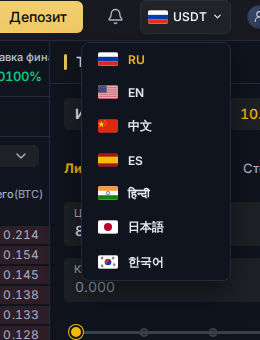
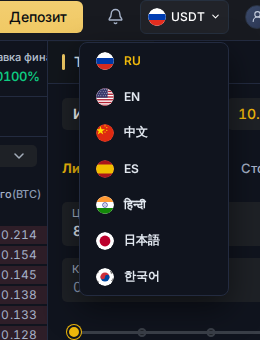
Language switcher: round flags
Each flag is an 18px circle clipped from the same 3:2 drawing (centred,
or on the canton / star side for the US and China) with a faint ring.

Claude-Session: https://claude.ai/code/session_01QYDaBPmAQT7kqxtv32nEHZ

diff --git a/frontend/src/components/LanguageSwitcher.tsx b/frontend/src/components/LanguageSwitcher.tsx
@@ -1,4 +1,4 @@
-import { useEffect, useRef, useState } from 'react';
+import { useEffect, useId, useRef, useState } from 'react';
 import { useLanguage } from '../lib/i18n';
 import { LANGUAGES, type Lang } from '../lib/i18n';
 
@@ -63,17 +63,23 @@ export function LanguageSwitcher({ variant = 'icon', quoteAsset }: { variant?: '
   );
 }
 
-/** The flag of the language's country, 3:2, simplified to what reads at
- *  20×14px. A hairline ring keeps the white fields (Japan, Korea) visible
- *  on the dark header. In the list the name follows, so there it is
- *  decorative; on the button it is the only thing naming the language. */
+/** The flag of the language's country as a round 18px badge (owner,
+ *  2026-09-24). The 3:2 flag is drawn as before and a 20×20 window of it
+ *  is clipped to a circle — centred, or on the canton / star side where the
+ *  flag's emblem sits there. A hairline ring keeps the white fields (Japan,
+ *  Korea) visible on the dark header. In the list the name follows, so
+ *  there it is decorative; on the button it names the language. */
+const FLAG_WINDOW: Record<Lang, number> = { en: 0, zh: 0, ru: 5, es: 5, hi: 5, ja: 5, ko: 5 };
 function FlagIcon({ lang, label, decorative = false }: { lang: Lang; label: string; decorative?: boolean }) {
+  const clip = `flag-${useId().replace(/[^a-zA-Z0-9_-]/g, '')}`;
+  const x = FLAG_WINDOW[lang] ?? 5;
   return (
-    <svg className="language-flag" width="20" height="14" viewBox="0 0 30 20" style={styles.flag}
+    <svg className="language-flag" width="18" height="18" viewBox={`${x} 0 20 20`} style={styles.flag}
       {...(decorative ? { 'aria-hidden': true } : { role: 'img', 'aria-label': label })}>
       {!decorative && <title>{label}</title>}
-      {FLAGS[lang] ?? FLAGS.en}
-      <rect x="0.25" y="0.25" width="29.5" height="19.5" rx="2" fill="none" stroke="rgba(255,255,255,0.18)" strokeWidth="0.5" />
+      <defs><clipPath id={clip}><circle cx={x + 10} cy="10" r="10" /></clipPath></defs>
+      <g clipPath={`url(#${clip})`}>{FLAGS[lang] ?? FLAGS.en}</g>
+      <circle cx={x + 10} cy="10" r="9.7" fill="none" stroke="rgba(255,255,255,0.22)" strokeWidth="0.6" />
     </svg>
   );
 }
@@ -182,7 +188,7 @@ const styles: Record<string, React.CSSProperties> = {
     zIndex: 60,
     minWidth: 150,
   },
-  flag: { display: 'block', flex: '0 0 auto', borderRadius: 2 },
+  flag: { display: 'block', flex: '0 0 auto', borderRadius: '50%' },
   option: {
     display: 'flex',
     alignItems: 'center',

diff --git a/docs/AI_HANDOFF.md b/docs/AI_HANDOFF.md
@@ -3633,4 +3633,5 @@ withdrawal was placed.
 - The globe icon and the language code are replaced by the language's country flag, 20×14 inline SVG (3:2, simplified to what reads at that size, a hairline ring so the white fields of Japan/Korea show on the dark header): ru → Russia, en → USA, zh → China, es → Spain, hi → India, ja → Japan, ko → South Korea. SVG rather than emoji because Windows renders flag emoji as two letters. The pill reads «[flag] USDT ▾» (the quote asset kept, the «RU /» gone); the icon variant (Marketing/Auth, phone menu) is the flag alone; each dropdown row is flag + name (the flag `aria-hidden` there, since the name follows). On the button the flag carries `role="img"`, `aria-label` and a `<title>` with the language's label; the button keeps its «Language / Язык / 语言» label. The list is 150px wide with `nowrap`, so «日本語»/«한국어» no longer wrap beside a flag.
 - Validation: frontend `tsc` PASS; production build PASS; `cryptoCardVisualConsistency`, `i18nLanguageChunks`, `futuresOrderErrors`, `orderPanelNavCleanup`, `futuresPairPersistence` 121/121; `sharedHeaderStylesheetOwnership` has the same 2 failures as main (names compared), and its «LanguageSwitcher imports no stylesheet» check passes. Browser on the fixture: flag 20×14 visible at 1440 and 390 (the phone header hides the text span as before; the flag stays), dropdown lists the seven languages. Screenshots `docs/qa/language-flags/`.
 - Preserved: the header's classes and index.css ownership; the phone rule that hides `.language-control span`; AuthShell's rule that shows it.
+- **Round flags** (owner: «Лого прапорів зробити круглими»): each flag is an 18×18 circle — the same 3:2 drawing, a 20×20 window of it clipped to a circle (`clipPath` with a per-instance `useId`), centred, or on the left for the US canton and the Chinese stars — with a 0.6px white ring at 22%. Frontend `tsc` PASS; production build PASS; on the fixture the flag measures 18×18 at 1440 and 390; screenshots in `docs/qa/language-flags/` re-taken.
 - Unresolved: the Russian language shows the Russian flag, as asked («прапорів країн»); if the owner wants a different mark for it, it is one entry in `FLAGS`. Not deployed.
